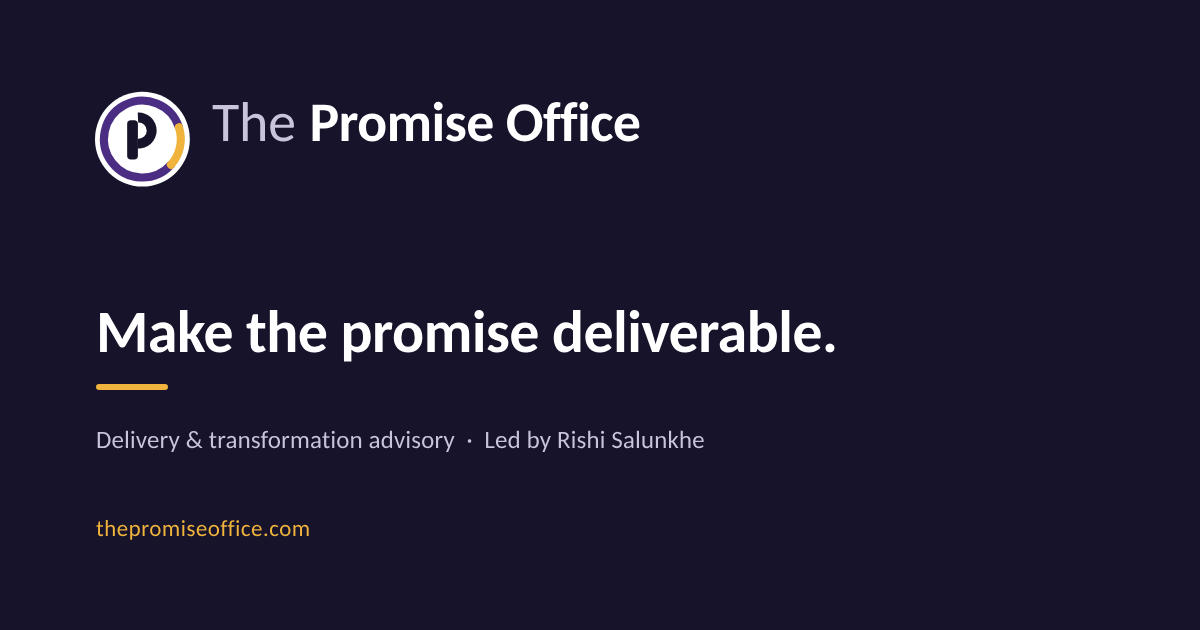
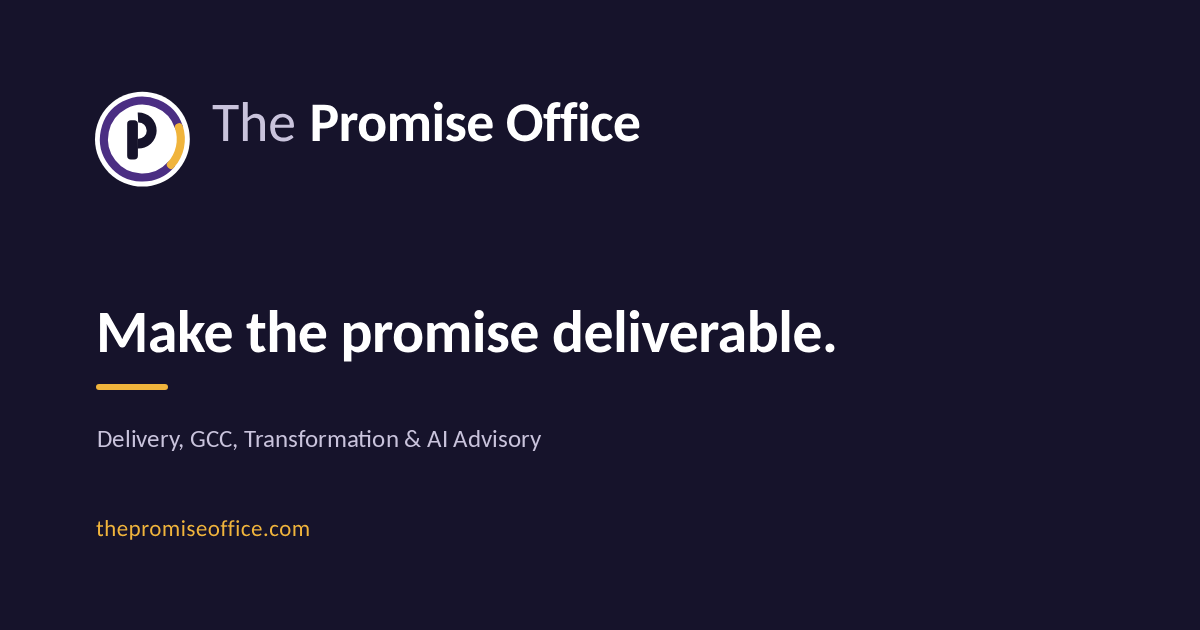
Portal-wide: organisation structured data, no personal pictures, Rishi -> Hrishikesh
- Replace every Person JSON-LD (Home, Contact, GCC, AI, Advisory detail,
  Insights) with organisation-level ProfessionalService data; add
  organisationRef and contactEntity helpers in Seo.
- Remove the founder portrait (assets, Portrait widget) and the
  public/brand/rishi.png file that the Person schema pointed at.
- Regenerate the social-preview PNG without "Led by Rishi Salunkhe".
- Rename "Rishi" to "Hrishikesh" in site data, Health Check, testimonials
  labels, guide kicker, Booked/Contact copy and docs.
- Rephrase the default site description at practice level.

Claude-Session: https://claude.ai/code/session_01CcpjxfwDhSpiqs6p2tC8VA

Changed region(s): [[0.0925, 0.6635, 0.5858, 0.7238]]

diff --git a/src/widgets/Seo/index.tsx b/src/widgets/Seo/index.tsx
@@ -69,16 +69,29 @@ export function Seo({
   )
 }
 
-export const personJsonLd = {
+const postalAddress = { '@type': 'PostalAddress', addressLocality: 'Pune', addressCountry: 'IN' } as const
+
+/** Organisation-level identity, used on Home and About. No individual is described here. */
+export const serviceJsonLd = {
   '@context': 'https://schema.org',
-  '@type': 'Person',
-  name: 'Hrishikesh Salunkhe',
-  alternateName: 'Rishi Salunkhe',
-  jobTitle: 'Delivery & Transformation Advisor',
-  email: `mailto:${site.email}`,
+  '@type': 'ProfessionalService',
+  '@id': `${site.url}/#organization`,
+  name: site.brand,
+  slogan: site.tagline,
   url: site.url,
-  address: { '@type': 'PostalAddress', addressLocality: 'Pune', addressCountry: 'IN' },
+  logo: `${site.url}/brand/favicon-512.png`,
+  image: `${site.url}/brand/social-preview-1200x630.png`,
   description: site.description,
+  email: `mailto:${site.email}`,
+  address: postalAddress,
+  areaServed: ['India', 'Australia', 'New Zealand', 'United Kingdom', 'Philippines'],
+  serviceType: [
+    'Delivery advisory',
+    'Transformation advisory',
+    'Managed services consulting',
+    'GCC advisory',
+    'AI delivery consulting',
+  ],
   knowsAbout: [
     'Program recovery',
     'PMO and PGO governance',
@@ -86,28 +99,30 @@ export const personJsonLd = {
     'ITSM and ITIL',
     'Process re-engineering',
     'Commercial and P&L governance',
+    'Global capability centres',
     'AI delivery and enablement',
-  ],
-  image: `${site.url}/brand/rishi.png`,
-  alumniOf: [
-    { '@type': 'Organization', name: 'Infosys' },
-    { '@type': 'Organization', name: 'Tech Mahindra' },
-    { '@type': 'Organization', name: 'Cleverex Technology' },
   ],
 }
 
-export const serviceJsonLd = {
-  '@context': 'https://schema.org',
+/** The practice as the provider or author of a Service, Blog or article. */
+export const organisationRef = {
   '@type': 'ProfessionalService',
   name: site.brand,
-  slogan: site.tagline,
   url: site.url,
-  email: `mailto:${site.email}`,
-  areaServed: ['India', 'Australia', 'New Zealand', 'United Kingdom', 'Philippines'],
-  serviceType: [
-    'Delivery advisory',
-    'Transformation advisory',
-    'Managed services consulting',
-    'AI delivery consulting',
-  ],
-}
+} as const
+
+/** Contact details for the Contact page, expressed for the practice rather than a person. */
+export const contactEntity = {
+  '@type': 'ProfessionalService',
+  name: site.brand,
+  url: site.url,
+  email: site.email,
+  address: postalAddress,
+  contactPoint: {
+    '@type': 'ContactPoint',
+    contactType: 'Enquiries',
+    email: site.email,
+    url: site.cal.url,
+    availableLanguage: 'English',
+  },
+} as const

diff --git a/examples/delivery-health-check.html b/examples/delivery-health-check.html
@@ -149,7 +149,7 @@ header.tool p{max-width:52ch;margin-inline:auto;color:var(--muted)}
   </div>
 
   <p style="text-align:center;margin-top:28px;color:var(--muted);font-size:.9rem">
-    A tool from <strong style="color:var(--ink)">The Promise Office</strong> — Delivery &amp; Transformation Advisory, led by Rishi Salunkhe.<br>
+    A tool from <strong style="color:var(--ink)">The Promise Office</strong> — Delivery &amp; Transformation Advisory, led by Hrishikesh Salunkhe.<br>
     <a href="https://www.thepromiseoffice.com" style="color:var(--accent);text-decoration:none">thepromiseoffice.com</a> ·
     <a href="https://www.linkedin.com/in/hrishikesh-v-salunkhe/" style="color:var(--accent);text-decoration:none">LinkedIn ↗</a>
   </p>
@@ -308,7 +308,7 @@ header.tool p{max-width:52ch;margin-inline:auto;color:var(--muted)}
       + '<div class="rec"><span class="eyebrow">Where I\'d start</span><h3>'+rec.name+'</h3>'
       + '<p>'+rec.blurb+'</p><ul>'+rec.bullets.map(function(b){return '<li>'+b+'</li>';}).join('')+'</ul>'
       + '<div class="btnrow"><a class="btn primary" href="#emailbox" data-scroll>Get my full results</a>'
-      + '<a class="btn ghost" href="mailto:hrishikesh.salunkhe@gmail.com?subject='+encodeURIComponent('Delivery Health Check — '+rec.name)+'">Talk to Rishi ↗</a></div></div>'
+      + '<a class="btn ghost" href="mailto:hrishikesh.salunkhe@gmail.com?subject='+encodeURIComponent('Delivery Health Check — '+rec.name)+'">Talk to Hrishikesh ↗</a></div></div>'
       + '<button type="button" class="restart" id="restartBtn">Start over</button>'
       + '<div class="emailbox" id="emailbox"><p class="eyebrow" style="display:block;margin-bottom:6px">Optional</p>'
       + '<p>Add your details and I\'ll prepare an email with your full reading, ready to send or copy.</p>'
@@ -330,7 +330,7 @@ header.tool p{max-width:52ch;margin-inline:auto;color:var(--muted)}
       var name = document.getElementById("rName").value.trim() || "—";
       var email = document.getElementById("rEmail").value.trim() || "—";
       var subject = "My Delivery Health Check results — " + vLabel.split(" — ")[0];
-      var body = "Hi Rishi,\n\nI ran the Delivery Health Check.\n\nName: "+name+"\nEmail: "+email+
+      var body = "Hi Hrishikesh,\n\nI ran the Delivery Health Check.\n\nName: "+name+"\nEmail: "+email+
         "\nOverall reading: "+vLabel+"\nTop signals: "+top.map(function(c){return c.cat;}).join(", ")+
         "\nSuggested starting point: "+rec.name+
         "\n\nI'd like to talk this through.\n";

diff --git a/src/data/site.ts b/src/data/site.ts
@@ -3,12 +3,12 @@ import { orgLogos } from '@/assets/orgs'
 export const site = {
   brand: 'The Promise Office',
   tagline: 'Make the promise deliverable',
-  person: 'Hrishikesh (Rishi) Salunkhe',
-  shortName: 'Rishi Salunkhe',
+  person: 'Hrishikesh Salunkhe',
+  shortName: 'Hrishikesh Salunkhe',
   role: 'Delivery & Transformation Advisory',
   /** Locked founder descriptor — use verbatim wherever an expanded founder line is appropriate. */
   founderDescriptor:
-    'Hrishikesh (Rishi) Salunkhe · Delivery & Transformation Advisor to IT Services, GCCs & Enterprise Leaders',
+    'Hrishikesh Salunkhe · Delivery & Transformation Advisor to IT Services, GCCs & Enterprise Leaders',
   discipline: 'Independent advisory · delivery, transformation & service performance',
   email: 'hrishikesh.salunkhe@gmail.com',
   linkedin: 'https://www.linkedin.com/in/hrishikesh-v-salunkhe/',
@@ -23,7 +23,7 @@ export const site = {
   reach: 'Working with distributed teams across India, APAC and the UK. On-site work can be agreed for the mandate.',
   url: 'https://www.thepromiseoffice.com',
   description:
-    'Delivery, transformation and managed services advisor for IT services firms, GCCs and enterprise leaders. 21+ years connecting decisions, numbers, teams and operating rhythm.',
+    'Delivery, GCC, transformation and AI advisory for IT services firms, global capability centres and enterprise leaders. Experience that connects decisions, numbers, teams and operating rhythm.',
   experienceYears: 21,
   markets: ['India', 'Australia', 'New Zealand', 'UK', 'Philippines'],
 } as const

diff --git a/src/pages/Contact/index.tsx b/src/pages/Contact/index.tsx
@@ -10,7 +10,7 @@ import { Eyebrow } from '@/widgets/Eyebrow'
 import { ErrorBoundary } from '@/widgets/ErrorBoundary'
 import { PageHeader } from '@/widgets/PageHeader'
 import { Reveal } from '@/widgets/Reveal'
-import { Seo } from '@/widgets/Seo'
+import { contactEntity, Seo } from '@/widgets/Seo'
 
 const expectations = [
   'A 30-minute call to understand the decision you face.',
@@ -25,19 +25,13 @@ export function ContactPage() {
     <>
       <Seo
         title="Contact"
-        description="Book a 30-minute call with Hrishikesh (Rishi) Salunkhe to discuss a delivery, transformation or managed services mandate."
+        description="Book a 30-minute call with The Promise Office to discuss a delivery, transformation or managed services mandate."
         path={paths.contact}
         jsonLd={{
           '@context': 'https://schema.org',
           '@type': 'ContactPage',
           name: 'Contact — The Promise Office',
-          mainEntity: {
-            '@type': 'Person',
-            name: site.person,
-            email: site.email,
-            url: site.cal.url,
-            address: { '@type': 'PostalAddress', addressLocality: 'Pune', addressCountry: 'IN' },
-          },
+          mainEntity: contactEntity,
         }}
         breadcrumb="Contact"
       />

diff --git a/src/data/perspective.ts b/src/data/perspective.ts
@@ -8,13 +8,13 @@ export const testimonials = [
   {
     text: 'As a PGO Lead, he was really good at making sure that things do not fall through the cracks.',
     name: 'Harish Sriramagiri',
-    relation: 'Managed Rishi directly',
+    relation: 'Managed Hrishikesh directly',
     year: '2020',
   },
   {
     text: 'His focus is not only to solve the problem at hand, but also to design and implement right processes to fix it permanently.',
     name: 'Ankur Jain',
-    relation: 'Managed Rishi directly',
+    relation: 'Managed Hrishikesh directly',
     year: '2020',
   },
 ] as const
@@ -136,7 +136,7 @@ export const insights = [
 ] as const
 
 export const guide = {
-  kicker: 'A Rishi guide',
+  kicker: 'A Hrishikesh guide',
   title: 'AI Without the Jargon',
   copy: 'A plain-language guide for people starting their careers and professionals who want to understand AI, LLMs and agents without needing to write code. It builds the judgment to ask better questions of AI tools and their outputs.',
   strap: 'Understand the ideas. Make better decisions.',

diff --git a/src/features/healthCheck/HealthCheckTool.tsx b/src/features/healthCheck/HealthCheckTool.tsx
@@ -73,7 +73,7 @@ export function HealthCheckTool() {
   const briefText = useMemo(() => {
     if (!result) return ''
     return [
-      'Hi Rishi,',
+      'Hi Hrishikesh,',
       '',
       'I ran the Delivery Health Check.',
       '',
@@ -420,7 +420,7 @@ export function HealthCheckTool() {
 
               {/* Hand-off: prepares an email, stores nothing. */}
               <div className="mt-8 rounded-2xl bg-sunk p-6">
-                <p className="font-display text-lg">Send this reading to Rishi</p>
+                <p className="font-display text-lg">Send this reading to Hrishikesh</p>
                 <p className="mt-1.5 text-[0.93rem] text-muted">
                   Add your details and we will prepare an email for you to review and send. Nothing is
                   stored or submitted by this site — your answers stay in this browser tab only.

diff --git a/src/pages/AI/index.tsx b/src/pages/AI/index.tsx
@@ -8,7 +8,7 @@ import { LinkButton } from '@/widgets/Button'
 import { PageHeader } from '@/widgets/PageHeader'
 import { Reveal, RevealGroup } from '@/widgets/Reveal'
 import { SectionHeader } from '@/widgets/SectionHeader'
-import { Seo } from '@/widgets/Seo'
+import { organisationRef, Seo } from '@/widgets/Seo'
 import { SpotlightCard } from '@/widgets/SpotlightCard'
 
 const capabilities = [
@@ -66,7 +66,7 @@ export function AIPage() {
           name: 'AI & Intelligent Operations',
           description:
             'Advisory on moving AI from pilot to governed, measurable business operations — operating model, governance and adoption, not model engineering.',
-          provider: { '@type': 'Person', name: 'Hrishikesh Salunkhe' },
+          provider: organisationRef,
         }}
       />
 

diff --git a/src/pages/GCC/index.tsx b/src/pages/GCC/index.tsx
@@ -9,7 +9,7 @@ import { Eyebrow } from '@/widgets/Eyebrow'
 import { PageHeader } from '@/widgets/PageHeader'
 import { Reveal, RevealGroup } from '@/widgets/Reveal'
 import { SectionHeader } from '@/widgets/SectionHeader'
-import { Seo } from '@/widgets/Seo'
+import { organisationRef, Seo } from '@/widgets/Seo'
 import { SpotlightCard } from '@/widgets/SpotlightCard'
 
 const lifecycle = [
@@ -76,7 +76,7 @@ export function GCCPage() {
           name: 'GCC & Capability Centre Advisory',
           description:
             'Advisory on the operating, delivery, governance and capability layer of Global Capability Centre creation and transformation.',
-          provider: { '@type': 'Person', name: 'Hrishikesh Salunkhe' },
+          provider: organisationRef,
         }}
       />
 

diff --git a/src/pages/AdvisoryDetail/index.tsx b/src/pages/AdvisoryDetail/index.tsx
@@ -7,7 +7,7 @@ import { CtaBand } from '@/widgets/CtaBand'
 import { Eyebrow } from '@/widgets/Eyebrow'
 import { PageHeader } from '@/widgets/PageHeader'
 import { Reveal } from '@/widgets/Reveal'
-import { Seo } from '@/widgets/Seo'
+import { organisationRef, Seo } from '@/widgets/Seo'
 
 export function AdvisoryDetailPage() {
   const { slug } = useParams()
@@ -29,7 +29,7 @@ export function AdvisoryDetailPage() {
           '@type': 'Service',
           name: engagement.title,
           description: engagement.lead,
-          provider: { '@type': 'Person', name: 'Hrishikesh Salunkhe' },
+          provider: organisationRef,
         }}
         breadcrumb={engagement.title}
       />

diff --git a/src/pages/Home/index.tsx b/src/pages/Home/index.tsx
@@ -1,6 +1,6 @@
 import { CtaBand } from '@/widgets/CtaBand'
 import { paths } from '@/routes/paths'
-import { personJsonLd, Seo } from '@/widgets/Seo'
+import { Seo, serviceJsonLd } from '@/widgets/Seo'
 import { HomeCapabilities } from '@/pages/Home/Capabilities'
 import { HomeEngagements } from '@/pages/Home/Engagements'
 import { HomeFramework } from '@/pages/Home/Framework'
@@ -16,7 +16,7 @@ import { HomeThesis } from '@/pages/Home/Thesis'
 export function HomePage() {
   return (
     <>
-      <Seo path="/" jsonLd={personJsonLd} />
+      <Seo path="/" jsonLd={serviceJsonLd} />
       {/* 1. Client problems */}
       <HomeHero />
       <HomePractices />

diff --git a/src/pages/Insights/index.tsx b/src/pages/Insights/index.tsx
@@ -8,7 +8,7 @@ import { Eyebrow } from '@/widgets/Eyebrow'
 import { PageHeader } from '@/widgets/PageHeader'
 import { Reveal } from '@/widgets/Reveal'
 import { Seal } from '@/widgets/Seal'
-import { Seo } from '@/widgets/Seo'
+import { organisationRef, Seo } from '@/widgets/Seo'
 
 export function InsightsPage() {
   return (
@@ -25,7 +25,7 @@ export function InsightsPage() {
             '@type': 'BlogPosting',
             headline: article.title,
             abstract: article.standfirst,
-            author: { '@type': 'Person', name: 'Hrishikesh Salunkhe' },
+            author: organisationRef,
           })),
         }}
         breadcrumb="Insights"

diff --git a/src/widgets/PageHeader/index.tsx b/src/widgets/PageHeader/index.tsx
@@ -21,7 +21,7 @@ export function PageHeader({
   title: string
   copy?: string
   breadcrumb: string
-  /** Optional right-hand visual, used for the founder portrait. */
+  /** Optional right-hand visual. */
   aside?: ReactNode
   children?: ReactNode
   /** False when another section already precedes this one on the page — drops the top padding reserved for clearing the fixed navbar. */
